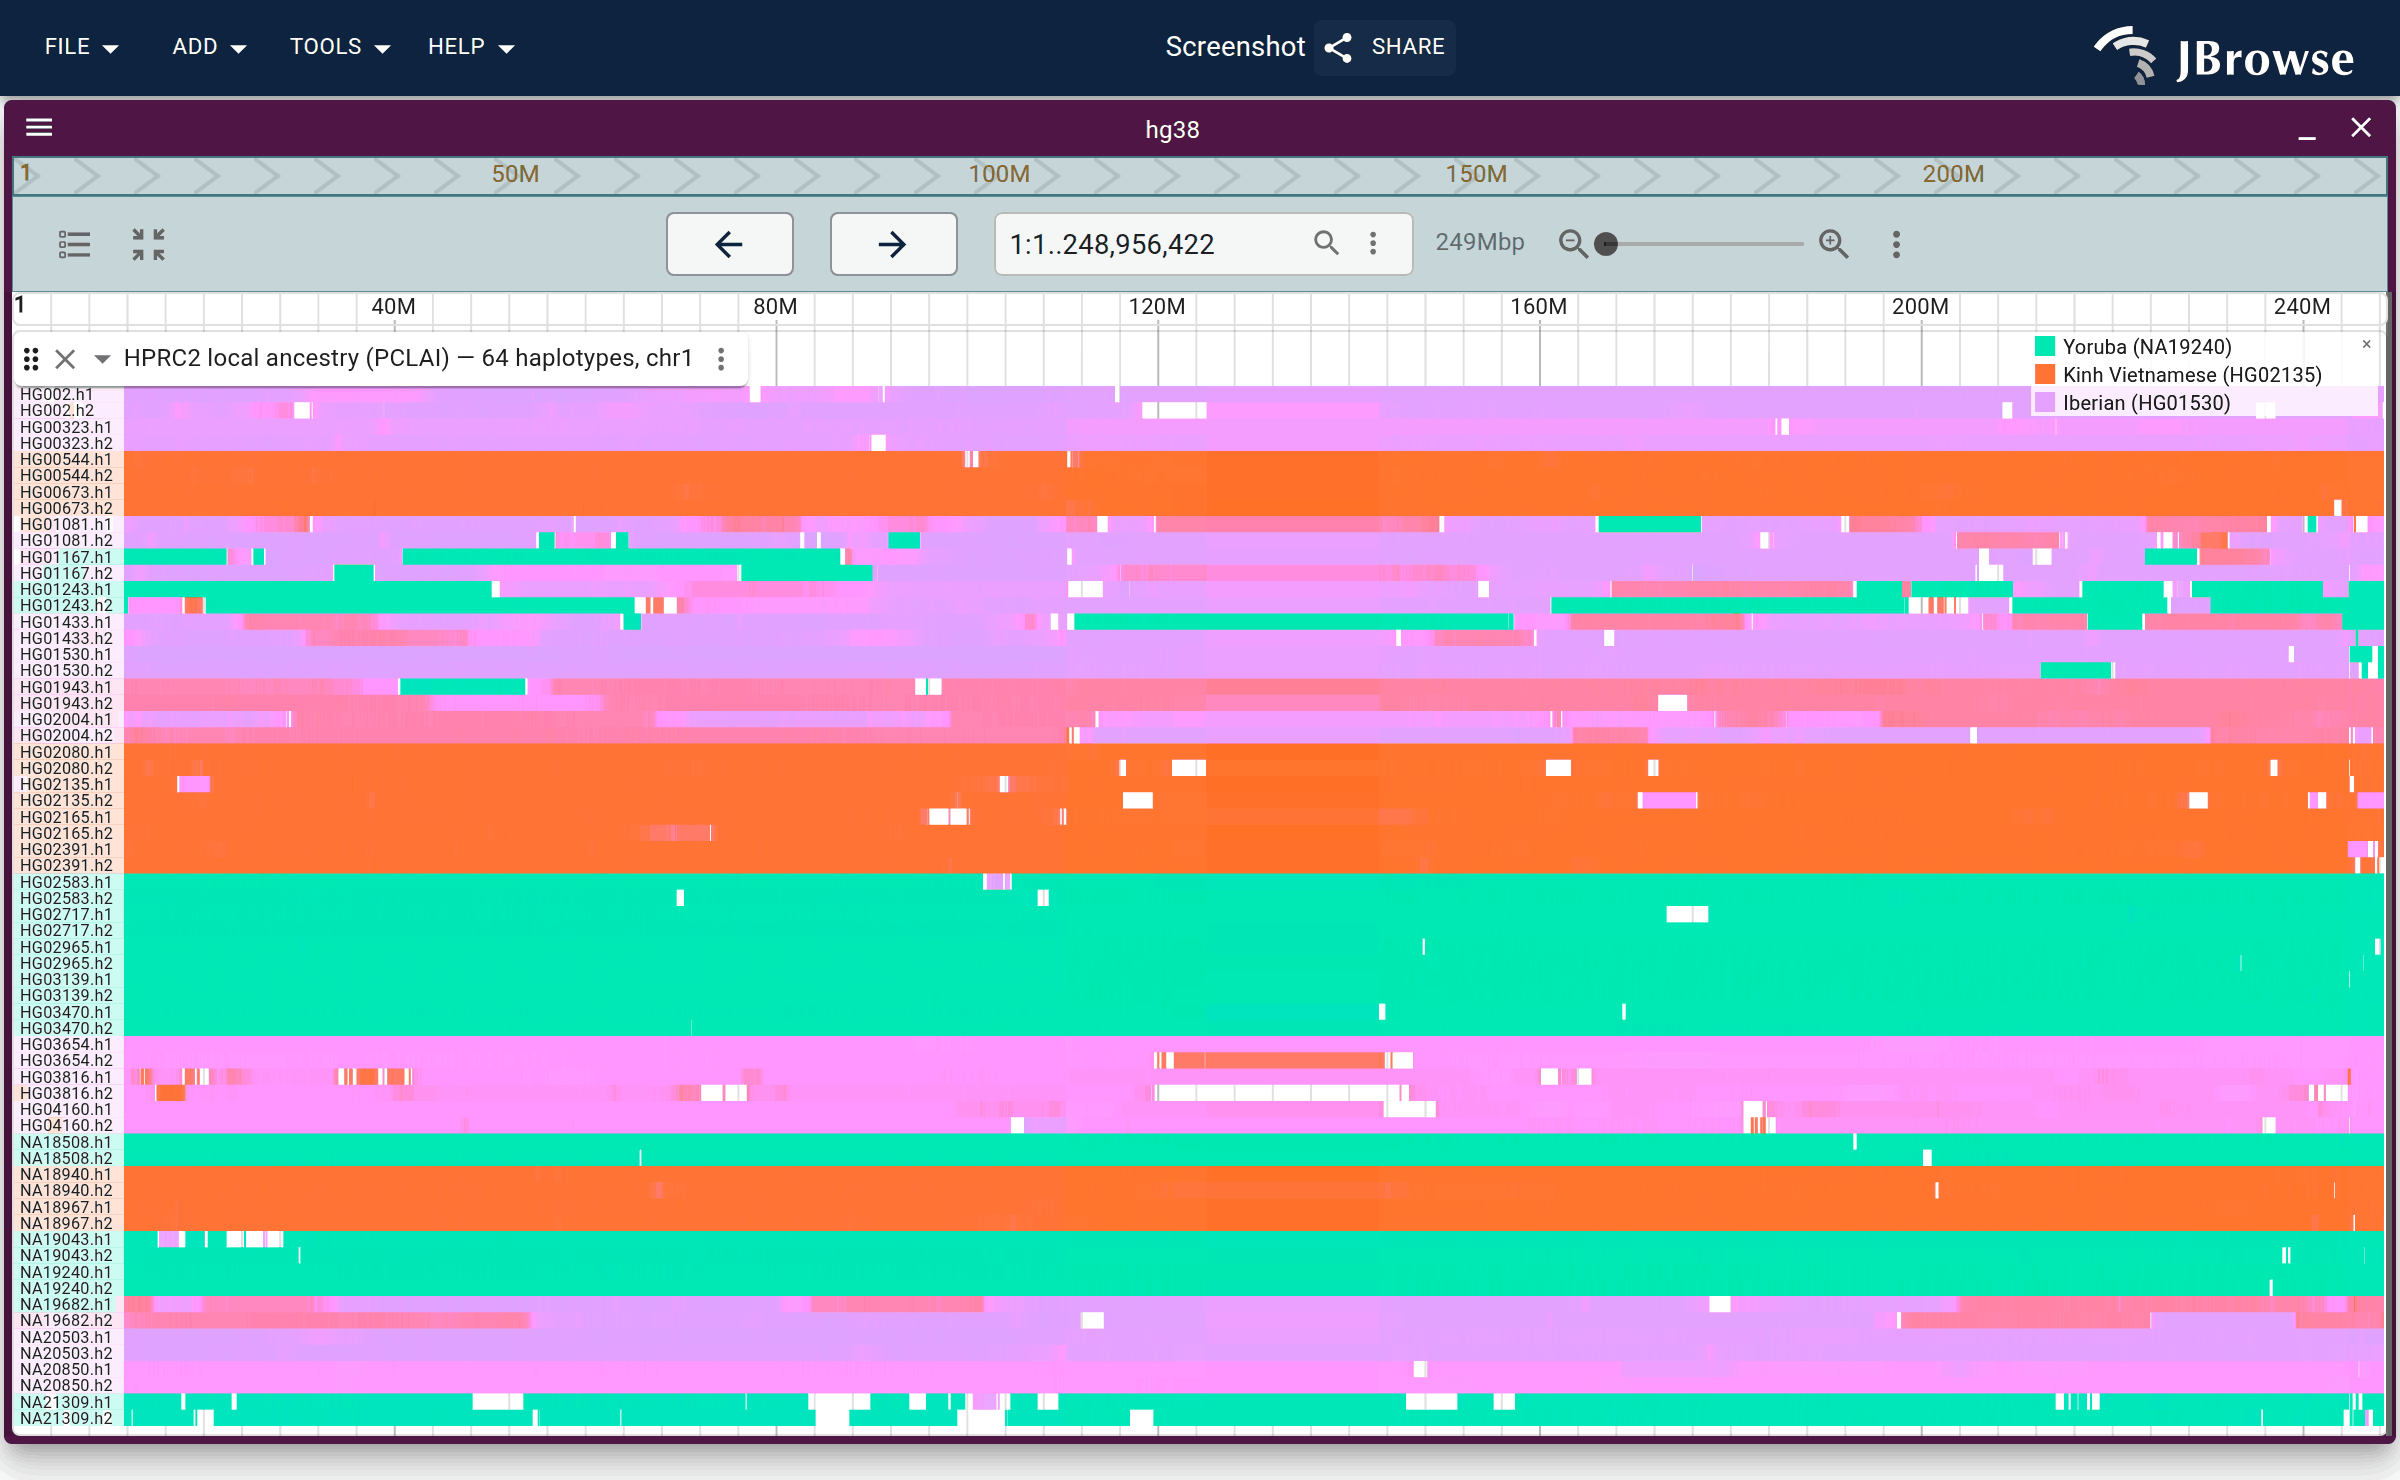
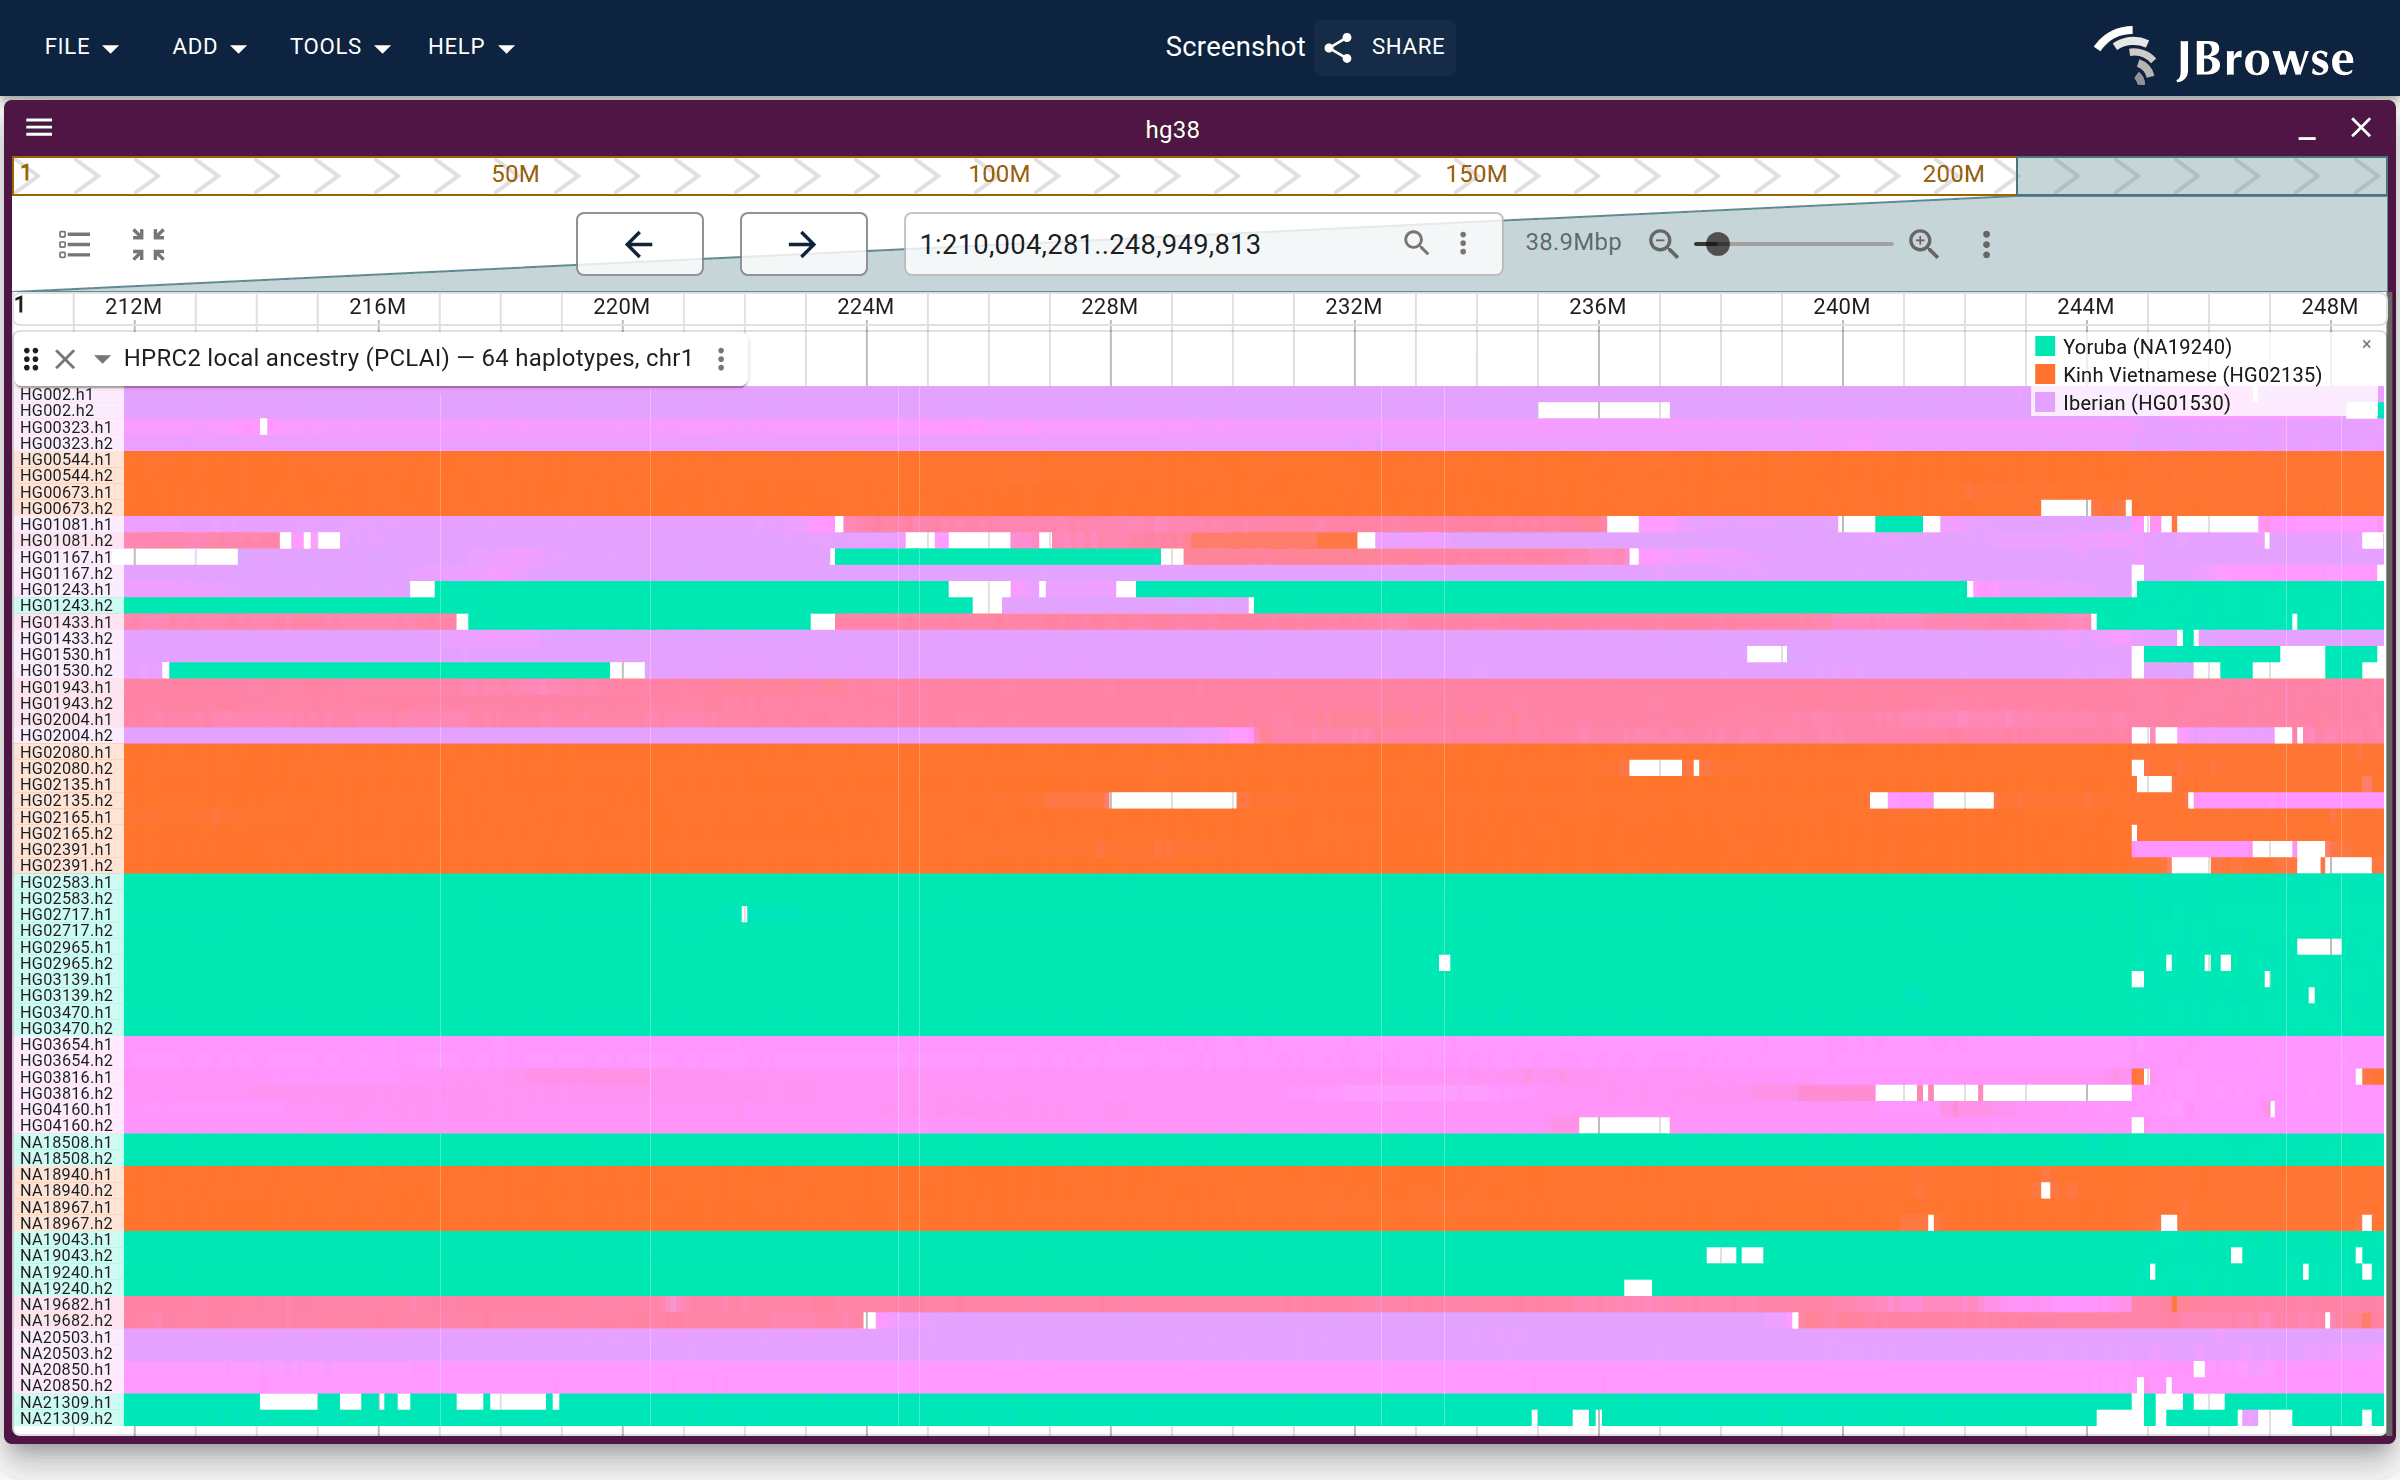
fix(website): window the PCLAI ancestry painting so the mosaic is visible
Review flagged both local-ancestry figures as "just big horizontal bands,
not very interesting". An earlier pass added a legend, which is a real
fix but a cosmetic one — it left the bands.

The bands are a resolution artifact. Across all of chr1 the view is
~226 kb/px while the median PCLAI ancestry tract is ~0.24 Mb, so almost
every tract falls under a pixel and each haplotype averages out to one
solid colour. Local ancestry only has something to show where haplotypes
actually switch, and at that scale the switches are invisible.

Window picked from the data rather than by eye: counting colour switches
per window in the BED, 44 of the 64 haplotypes switch inside
chr1:210Mb-end, against 33 in 110-140 Mb and 29 in 170-200 Mb. At 44 kb/px
the median tract is ~5px, so tracts and their breakpoints are legible, and
coverage there is continuous (no assembly gap to leave a white band).
Both figures move together so the input-order vs clustered pair still
contrasts — and that contrast now means something, because the interleaved
mosaic rows are visible in the first and grouped in the second.

The hosted BED is chr1-only (build_hprc2_pclai.sh takes one chromosome), so
picking a different chromosome would need a rebuild and rehost; that is
noted next to the spec.

The captions and review notes for this change were swept into an earlier
commit by a concurrent session in this worktree, so HEAD briefly described
a 39 Mb window while the spec still rendered whole chr1. This commits the
[…]

diff --git a/website/scripts/specs/hprc2.ts b/website/scripts/specs/hprc2.ts
@@ -123,6 +123,17 @@ export const hprc2Specs: ScreenshotSpec[] = [
   // only applies named BED fields at exactly 12, so the color lands in `field8`
   // and the automatic BED color path claims it with no columnNames and no jexl.
   //
+  // Windowed to chr1:210Mb-end rather than the whole chromosome. Across all of
+  // chr1 the view is ~226kb/px, so ancestry tracts (median ~0.24Mb) collapse
+  // below a pixel and all but a handful of rows read as one solid colour - the
+  // "just flat colour bands" the review flagged. Picked by counting colour
+  // switches per window in the BED: 44 of the 64 haplotypes switch inside
+  // 210Mb-end versus 29 in 170-200Mb and 33 in 110-140Mb, and at 44kb/px the
+  // median tract is ~5px, so the mosaic and its breakpoints are actually
+  // visible. Coverage is continuous here (no assembly gap to leave a white
+  // band). The hosted BED is chr1-only (build_hprc2_pclai.sh takes one
+  // chromosome), so a different chromosome would need a rebuild + rehost.
+  //
   // rowHeight defaults to 0 (auto-fit), so all 64 haplotypes stretch to fill the
   // display. No legend: the colormap is continuous, so the auto-derived key
   // exceeds MAX_LEGEND_ENTRIES and renders nothing. That rules out the
@@ -137,7 +148,7 @@ export const hprc2Specs: ScreenshotSpec[] = [
         {
           type: 'LinearGenomeView',
           assembly: 'hg38',
-          loc: 'chr1:1-248,956,422',
+          loc: 'chr1:210,000,000-248,945,532',
           tracks: [
             {
               trackId: 'hprc2_pclai_painting',
@@ -173,7 +184,7 @@ export const hprc2Specs: ScreenshotSpec[] = [
         {
           type: 'LinearGenomeView',
           assembly: 'hg38',
-          loc: 'chr1:1-248,956,422',
+          loc: 'chr1:210,000,000-248,945,532',
           tracks: [
             {
               trackId: 'hprc2_pclai_painting',
